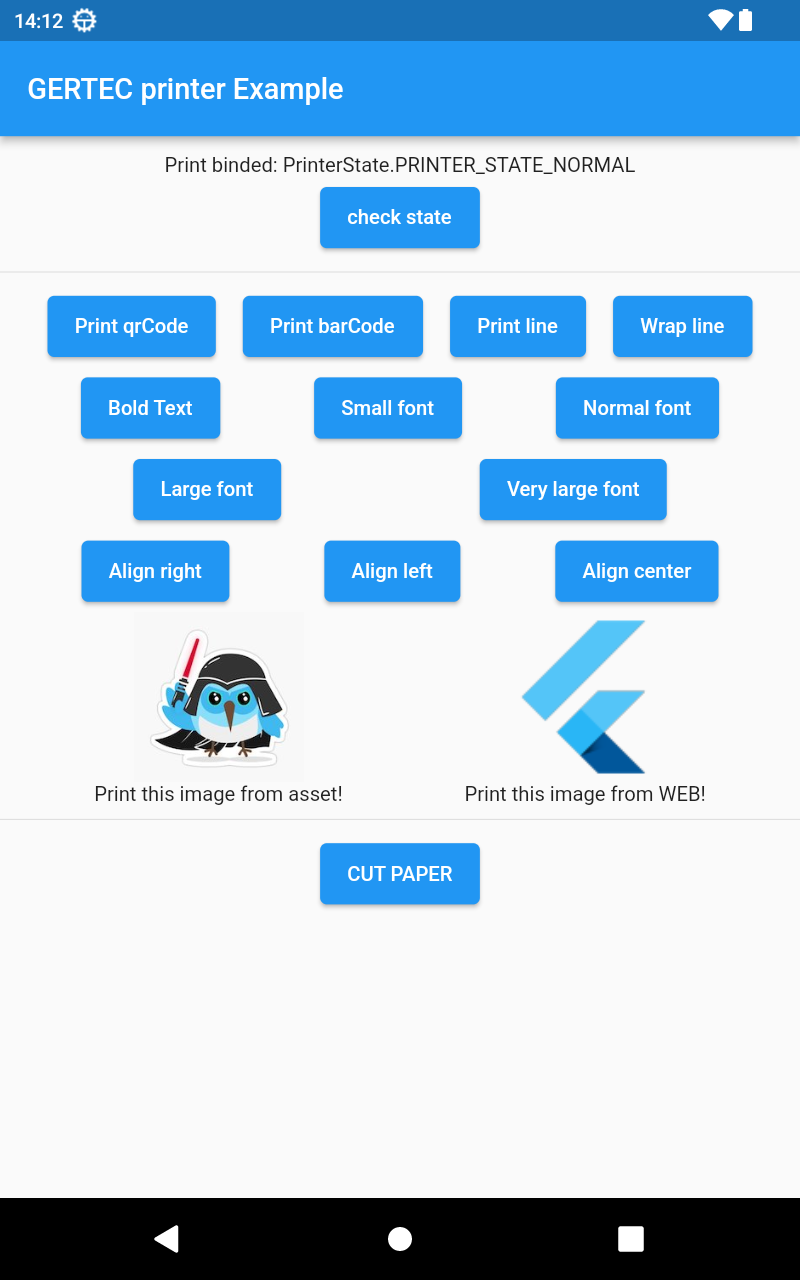
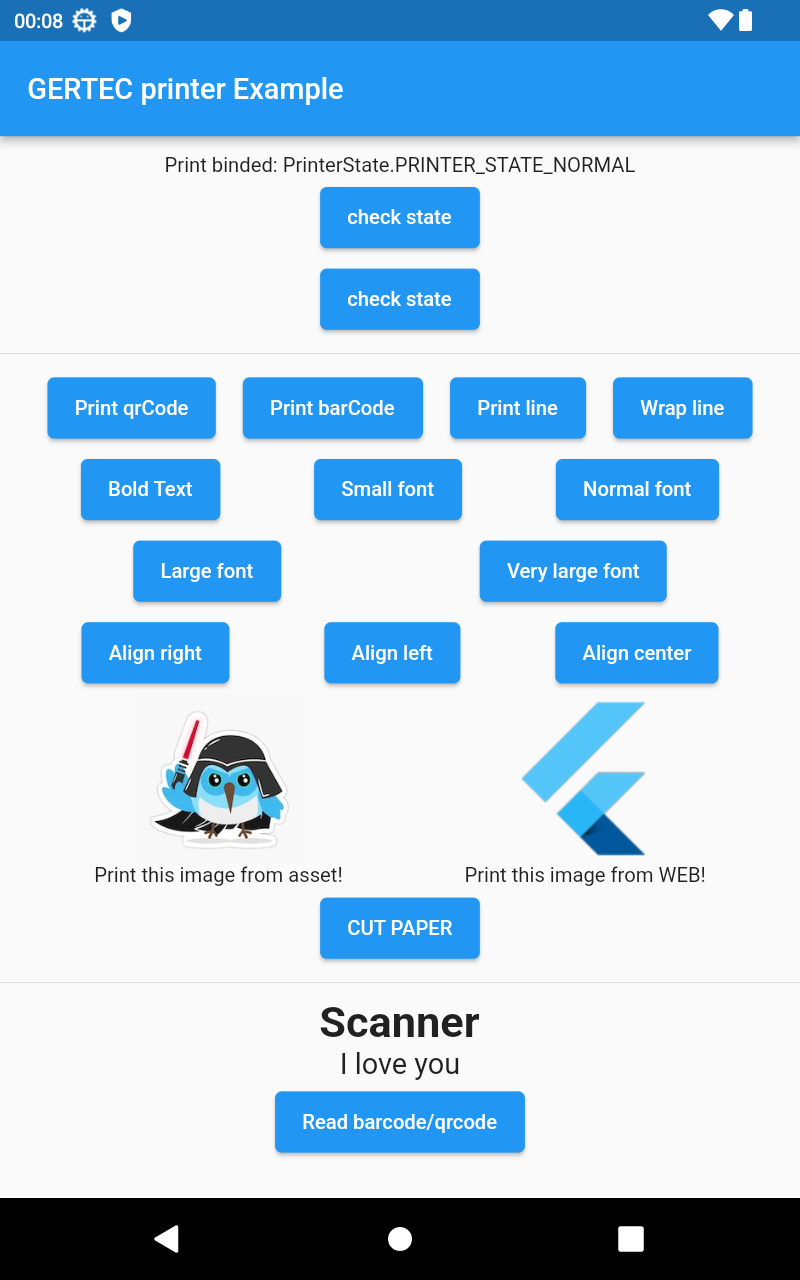
feature: Liberando leitor do codigo de barras + barcode

diff --git a/README.md b/README.md
@@ -24,15 +24,16 @@ Gertec SK-210
 ## O que o package faz até o momento
 
 # IMPRESSORA
-- [x] Escreve uma linha ou um texto estilizado (tipos de estilo no final do readme) -  **printText**
-- [x] Avança x linhas à sua escolha - **wrap**
-- [x] Faz o corte de papel - **cutPaper**
-- [x] Imprime códigos de barras de todos os estilos e modelos (tipos de modelos no final do readme) - **printBarCode**
-- [x] Imprime qrcodes com todos os tipos de correções e tamanhos - **printQrcode**
-- [ ] Envia comando escpos diretamente para impressora, caso você já tenha um script de escpos é só utilizar este comando  - **printRaw**
-- [x] Desenha uma linha com o caractere customizável para separar áreas de impressão  - **line**
-- [x] Imprime uma imagem tanto vinda da web quanto de algum asset (ver exemplo) - **printImage**
-- [x] Pega e status da impressora (tipos disponíveis no final do readme)
+- [ x ] Escreve uma linha ou um texto estilizado (tipos de estilo no final do readme) -  **printText**
+- [ x ] Avança x linhas à sua escolha - **wrap**
+- [ x ] Faz o corte de papel - **cutPaper**
+- [ x ] Imprime códigos de barras de todos os estilos e modelos (tipos de modelos no final do readme) - **printBarCode**
+- [ x ] Imprime qrcodes com todos os tipos de correções e tamanhos - **printQrcode**
+- ~~[ ] Envia comando escpos diretamente para impressora, caso você já tenha um script de escpos é só utilizar este comando~~   - **printRaw**  (Estou aguardando a nova versão do SDK)
+- [ x ] Desenha uma linha com o caractere customizável para separar áreas de impressão  - **line**
+- [ x ] Imprime uma imagem tanto vinda da web quanto de algum asset (ver exemplo) - **printImage**
+- [ x ] Pega e status da impressora (tipos disponíveis no final do readme)
+- [ x ] Faz leitura de barcode e qrcode no leitor ao lado da impressora
 
 
 
@@ -40,11 +41,7 @@ Gertec SK-210
 
 **Tela com as funcionalidades de exemplo**
 
-<p align="left">
-  <img src="https://marcus.brasizza.com/imagens/gertec_example.png"  
-  title="Todas as funcionalidades">
-</p>
-
+![PRINT](./resources/print.png)
 
 
 ## Comandos básicos para conexão ##

diff --git a/CHANGELOG.md b/CHANGELOG.md
@@ -1,3 +1,8 @@
+## 0.0.5
+    - README fix e imagens
+    - Atualização para receber suporte ao leitor de código de barras/ QrCode abaixo do dispositivo, somente ativo (mediante a execução para iniciar a captura)
+
+
 ## 0.0.4
  - Atualização para receber suporte ao leitor de código de barras/ QrCode abaixo do dispositivo, somente ativo (mediante a execução para iniciar a captura)
 
